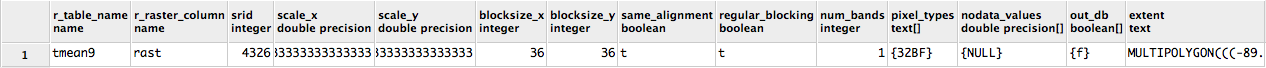
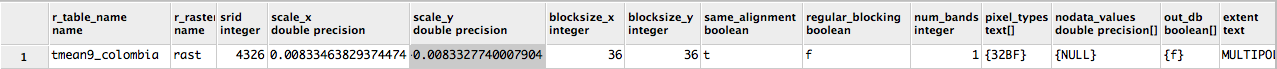
Nuevos ejercicios sobre raster

diff --git a/postgis_raster.rst b/postgis_raster.rst
@@ -60,7 +60,7 @@ Para consultar los metadatos de una tabla mediante el catálogo *raster_columns*
 		nodata_values,
 		out_db,
 		ST_AsText(extent) AS extent
-	FROM raster_columns WHERE r_table_name = 'tmean9';
+	FROM raster_columns WHERE r_table_name = 'tmean9_colombia';
 
 
 Y la salida es:
@@ -76,15 +76,15 @@ Aquí tenemos un ejemplo de cómo obtener los metadatos de una banda de una de l
 	# SELECT
 		rid,
 		(ST_BandMetadata(rast, 1)).*
-	FROM tmean9
-	WHERE rid = 550; 
+	FROM tmean9_colombia
+	WHERE rid = 1265; 
 
 El resultado es como sigue::
 
 
- 	# rid | pixeltype | nodatavalue | isoutdb | path
-	 -----+-----------+-------------+---------+------
- 	  550 | 32BF      |             | f       |
+ 	#  rid | pixeltype | nodatavalue | isoutdb | path
+	 ------+-----------+-------------+---------+------
+ 	  1266 | 32BF      |             | f       |
 
 	
 	
@@ -97,8 +97,8 @@ Si lo que queremos es obtener estadísticas de nuestras capas ráster, podemos h
 	# WITH stats AS (
 		SELECT
 			(ST_SummaryStats(rast, 1)).*
-		FROM tmean9
-		WHERE rid = 19995
+		FROM tmean9_colombia
+		WHERE rid = 1266
 	)
 	SELECT
 		count,
@@ -111,9 +111,9 @@ Si lo que queremos es obtener estadísticas de nuestras capas ráster, podemos h
 
 Y la salida es::
 
-	# count |  sum   |  mean  | stddev | min | max
-	 -------+--------+--------+--------+-----+-----
-  	   1296 | 215103 | 165.97 |   1.50 | 163 | 169
+	# count |  sum   |  mean  |  stddev | min | max
+	 -------+--------+--------+---------+-----+-----
+  	   1296 | 326501 | 251.93 |    7.21 | 223 | 263
 
 
 En la salida, podemos ver que los valores para las temperaturas mínima y máxima no parecen tener sentido. Lo que sucede es que son valores en grados centígrados que han sido escalados por 100. Más información en http://www.prism.oregonstate.edu/docs/meta/temp_realtime_monthly.htm
@@ -126,7 +126,7 @@ MapAlgebra sobre capas |PR|
 
 En el apartado anterior, vimos como los valores de temperaturas de la capa ráster estaban escalados por 100. Vamos a cambiar todos estos valores usando una expresión de MapAlgebra. Para ello, añadiremos una nueva banda con los valores cambiados::
 
-	# UPDATE tmean9 SET
+	# UPDATE tmean9_colombia SET
 		rast = ST_AddBand(
 			rast,
 			ST_MapAlgebraExpr(rast, 1, '32BF', '[rast] / 100.', -9999),
@@ -137,8 +137,8 @@ En la llamada a MapAlgebra, hemos especificado que la banda de salida tendrá un
 
 Tras ejecutar esa consulta, el resultado es éste::
 
-	# ERROR:  new row for relation "tmean9" violates check constraint "enforce_out_db_rast"
-	DETAIL:  Failing row contains (1, 0100000200111111111111813F11111111111181BF00000000008056C0000000..., tmean9.vrt).
+	# ERROR:  new row for relation "tmean9_colombia" violates check constraint "enforce_out_db_rast"
+	DETAIL:  Failing row contains (1, 0100000200563C2A37C011813F18FD8BFEC51081BF00000000426E54C0000000..., tmean9_colombia.tif)
 
 Como vemos, la consulta no ha funcionado. El problema es que, cuando cargamos esta capa ráster usando raster2pgsql, especificamos el flag **-C**. Este flag activa una serie de restricciones en nuestra tabla, para garantizar que todas las columnas de tipo RASTER tienen los mismos atributos (más información en http://postgis.net/docs/manual-2.0/RT_AddRasterConstraints.html).
 
@@ -150,8 +150,139 @@ La solución a nuestro problema pasa por:
 	2. Volver a ejecutar la consulta
 	3. Volver a activar las restricciones (**OJO: Es una operación costosa en datos raster muy grandes**)
 
-Trabajando con raster y geometrías de manera transparente
+
+Las consultas a ejecutar son las siguientes::
+
+	# SELECT DropRasterConstraints('tmean9_colombia', 'rast'::name);
+	# UPDATE tmean9_colombia SET rast = ST_AddBand(rast, ST_MapAlgebra(rast, 1, '32BF', '[rast] / 100.', -9999), 1);
+	# SELECT AddRasterConstraints('tmean9_colombia', 'rast'::name);
+
+Y el resultado es::
+
+	# droprasterconstraints
+	-----------------------
+ 	t
+
+	# UPDATE 2950
+
+	# addrasterconstraints
+	----------------------
+ 	t
+
+
+Ahora comprobaremos que una nueva banda ha sido añadida a nuestro ráster::
+
+	# SELECT
+		(ST_Metadata(rast)).numbands
+	FROM tmean9_colombia
+	WHERE rid = 1266;
+
+Devuelve::
+
+	# numbands
+	----------
+	2
+
+
+¿Y cuáles son los detalles de esas dos bandas?::
+
+	# WITH stats AS (
+		SELECT
+			1 AS bandnum,
+			(ST_SummaryStats(rast, 1)).*
+		FROM tmean9_colombia
+		WHERE rid = 1266
+		UNION ALL
+		SELECT
+			2 AS bandnum,
+			(ST_SummaryStats(rast, 2)).*
+		FROM tmean9_colombia
+		WHERE rid = 1266
+	)
+
+	SELECT
+		bandnum,
+		count,
+		round(sum::numeric, 2) AS sum,
+		round(mean::numeric, 2) AS mean,
+		round(stddev::numeric, 2) AS stddev,
+		round(min::numeric, 2) AS min,
+		round(max::numeric, 2) AS max
+	FROM stats
+	ORDER BY bandnum;
+
+El resultado es::
+
+	# bandnum | count |    sum    |  mean  | stddev |  min   |  max
+	 ---------+-------+-----------+--------+--------+--------+--------
+      		1 |  1296 | 326501.00 | 251.93 |   7.21 | 223.00 | 263.00
+       		2 |  1296 |   3265.01 |   2.52 |   0.07 |   2.23 |   2.63
+
+Vemos que el valor en la banda 2 ha sido corregido, dividiendo los valores de temperaturas entre 100. Ahora las temperaturas tienen sentido como grados centígrados
+
+
+Trabajando con ráster y geometrías al mismo tiempo
 =========================================================
+
+Una de las grandes ventajas de poder tener datos de naturaleza ráster y vectorial cargados en |PG| es que se puede operar con ellos mediante la utilización de la misma API SQL. En este ejemplo, veremos como *recortar* un raster usando una geometría como modelo.
+
+Trabajaremos con los datos ráster de temperaturas, y con los datos vectoriales de Colombia. Como vemos en esta imagen (coloreada con pseudocolor en QGIS 2.0), el ráster ocupa bastante más extensión que Colombia:
+
+	.. image:: _images/raster_with_vector.png
+		:scale: 30 %
+
+Lo que queremos es *recortar* la parte del ráster que queda dentro de los límites de Colombia. Y lo haremos únicamente con **consultas SQL**. Posteriormente, volcaremos ese ráster recortado a disco, en formato GeoTIFF.
+
+La consulta que se queda solamente con la parte del ráster comprendida dentro de los límites de Colombia es::
+
+	# CREATE TABLE tmean9_colombia_clip AS 
+	SELECT t.rid, t.rast, c.admin_name 
+	FROM tmean9_colombia t JOIN co c ON ST_Intersects(t.rast, c.geom)
+
+Con esa consulta hemos logrado crear una tabla con datos ráster **únicamente** comprendidos dentro de los límites de Colombia. Para visualizar esa tabla, tenemos dos opciones. Ambas requieren de **GDAL 2.0**
+
+	* Volcar el contenido de la tabla a disco, a formato GeoTIFF, mediante el uso de *gdal_translate* http://www.gdal.org/gdal_translate.html
+	* Instalar en QGIS el plugin de visualización de PostGIS Raster. El problema es que **aun no se ha portado el plugin a la versión 2.0 de QGIS**
+
+Elegimos la primera opción, por no requerir la instalación de ningún software adicional. La orden que debemos ejecutar es::
+
+	# gdal_translate PG:"host=localhost port=5432 dbname=taller_semana_geomatica user=postgres password=postgres table=tmean9_colombia_clip mode=2" tmean9_colombia_clip.tif
+
+
+Y el aspecto de este ráster recortado una vez colocado sobre el mapa y coloreado con pseudocolor en QGIS 2.0 es:
+
+.. image:: _images/postgis_raster_clipped.png
+	:scale: 30 %
+
+
+Combinando raster y geometrías para análisis espacial
+=====================================================
+
+Vamos a ver ahora cuáles fueron las temperaturas máximas, mínimas y medias de todos los barrios de Bogotá durante el mes de Septiembre. Para ello, usaremos nuevamente la API SQL de |PG| y |PR| junto con las funciones de agregación de PostgreSQL.
+
+La consulta a realizar es la siguiente::
+
+	..WARNING: TODO
+
+Acabarlo. hay que coger de estas dos consultas
+
+SELECT (
+        ST_SummaryStats(
+                ST_Union(
+                        ST_Clip(tmean9_colombia_clip.rast, 2, b.geom, TRUE)
+                ),
+                1
+        )
+).*
+FROM tmean9_colombia_clip
+JOIN barrios_de_bogota b
+        ON ST_Intersects(tmean9_colombia_clip.rast, b.geom)
+
+
+WITH stats AS (SELECT rast, (ST_SummaryStats(rast, 2)).* FROM tmean9_colombia_clip) select b.name, s.* from stats s join barrios_de_bogota b on st_intersects(b.geom, s.rast)
+order by b.name
+
+
 
 Procesando y cargando raster con GDAL VRT
 =========================================
